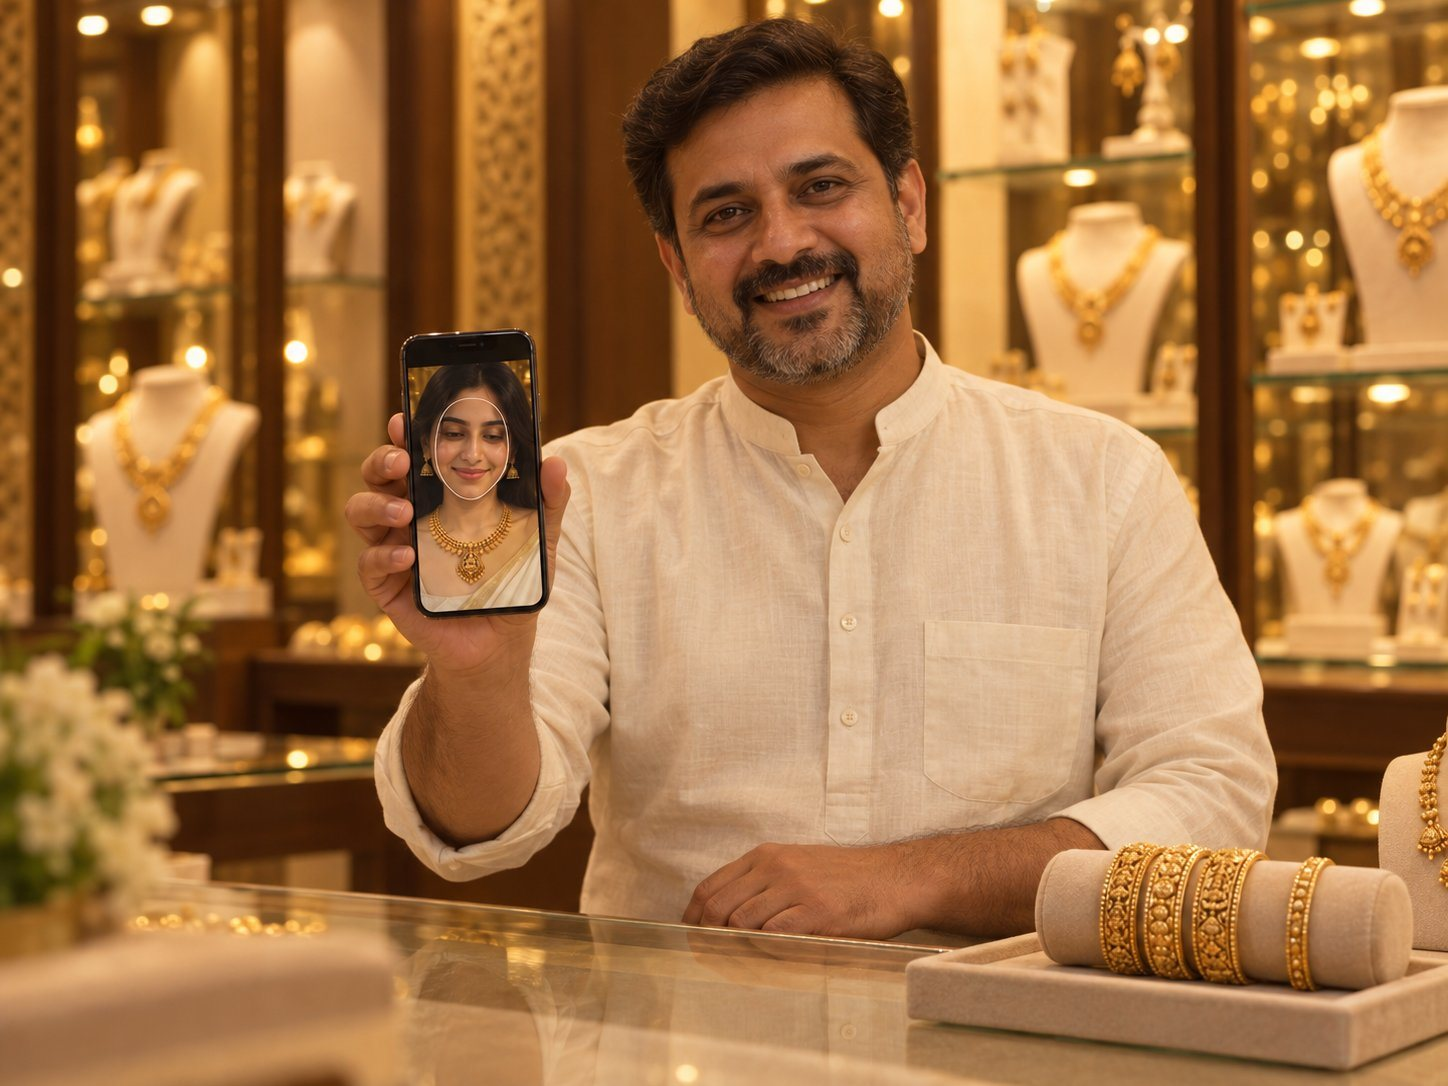
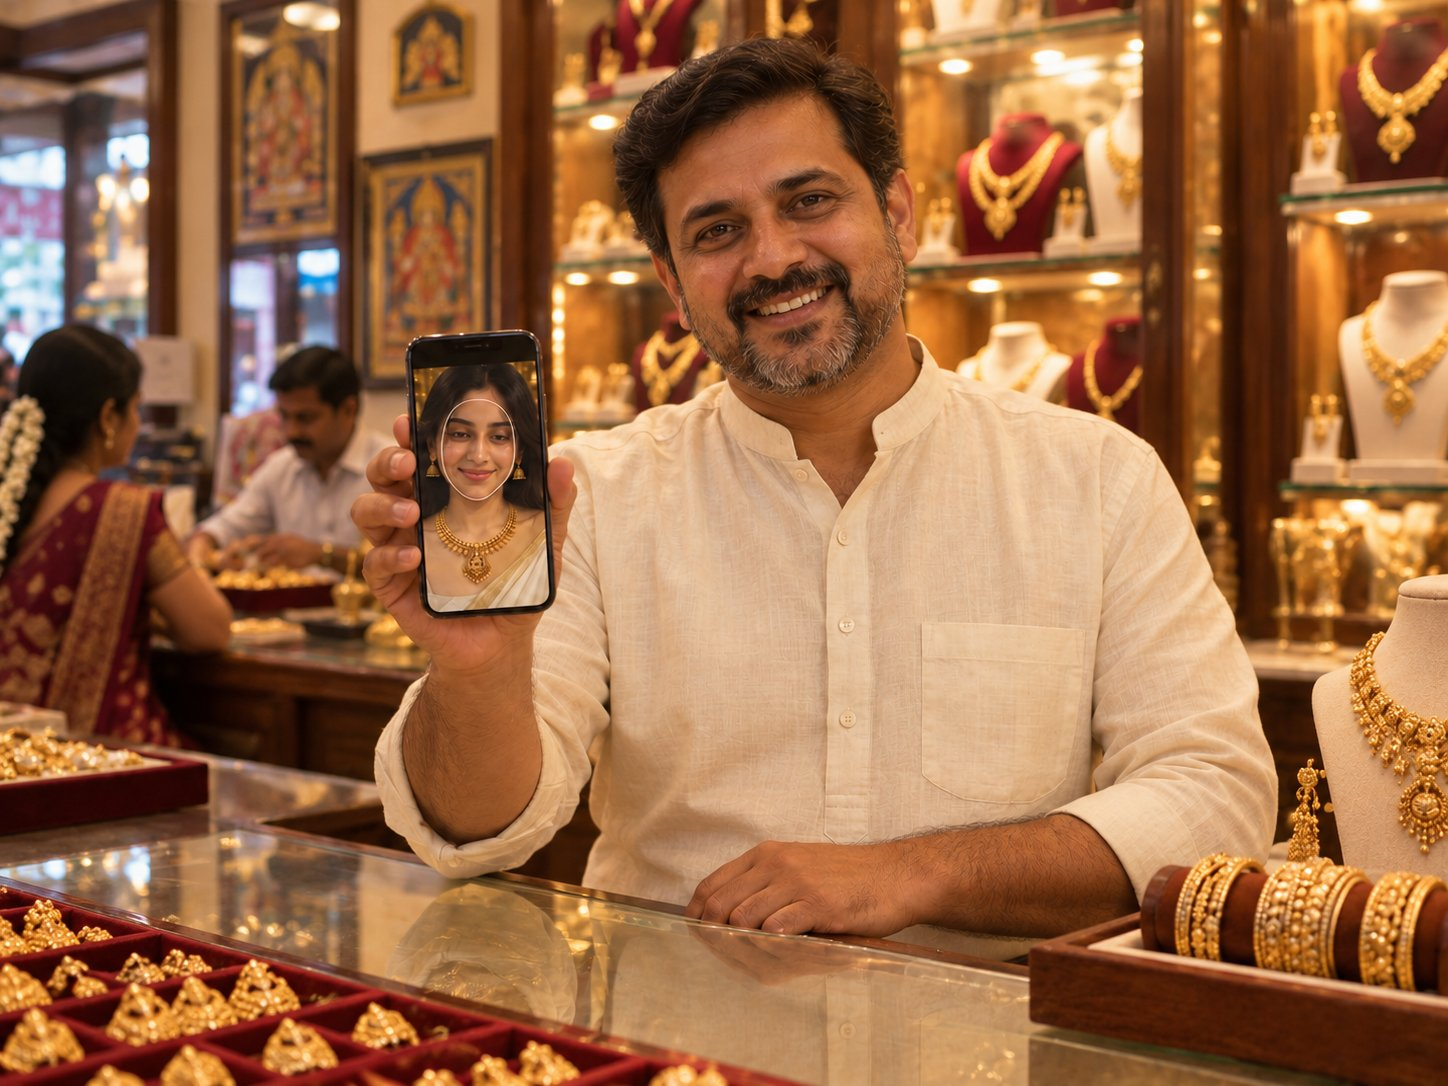
Update the Get a demo section photo
Swaps public/images/16.jpg for a new shot of the shop owner holding up
a phone with a woman's face and necklace on screen. Re-encoded as
progressive JPEG at its original size (no resize needed - same
dimensions as the file it replaces). Adjusted the crop's object-position
and updated the alt text, since the old text ("woman at home") no
longer matched the new (or even the previous) image's actual subject.

Verified at 1440px and 375px: full composition (man, phone, woman's
face) visible at both sizes with no unwanted cropping.

diff --git a/src/components/DemoSection.tsx b/src/components/DemoSection.tsx
@@ -10,6 +10,6 @@ export default function DemoSection() {
   useScrollReveal(imageRef);
   return <section className="demo" id="demo" aria-labelledby="demo-title"><div className="in">
     <div className="txt reveal" ref={textRef}><p className="label">Get a demo</p><h2 id="demo-title">Your craftsmanship. <em className="gi" style={{ display: 'block' }}>A new way to show it.</em></h2><p className="lead">See what LIVE TRY-ON can do for your jewellery business.</p><div className="cta"><a className="btn btn-gold" href="https://play.google.com/store/apps/details?id=com.techiearray.delivery" target="_blank" rel="noopener"><Icon name="download" />Download the app</a><a className="btn btn-line" href={WHATSAPP_DEMO_URL} target="_blank" rel="noopener"><Icon name="chat" />Request a demo</a></div><div className="reach"><a className="tel" href="tel:+919160591699"><Icon name="phone" />+91 91605 91699</a><a className="talk" href={WHATSAPP_DEMO_URL} target="_blank" rel="noopener"><Icon name="chat" />Let’s talk</a></div></div>
-    <div className="img reveal-right" ref={imageRef}><figure className="slot fill has-img"><img src="/images/16.jpg" style={{ objectPosition: '60% 50%' }} alt="Woman at home trying a gold jewellery design on her phone" loading="lazy" /></figure></div>
+    <div className="img reveal-right" ref={imageRef}><figure className="slot fill has-img"><img src="/images/16.jpg" style={{ objectPosition: '50% 30%' }} alt="Jewellery shop owner holding up a phone showing a woman wearing a gold necklace, shop counter in the background" loading="lazy" /></figure></div>
   </div></section>;
 }
